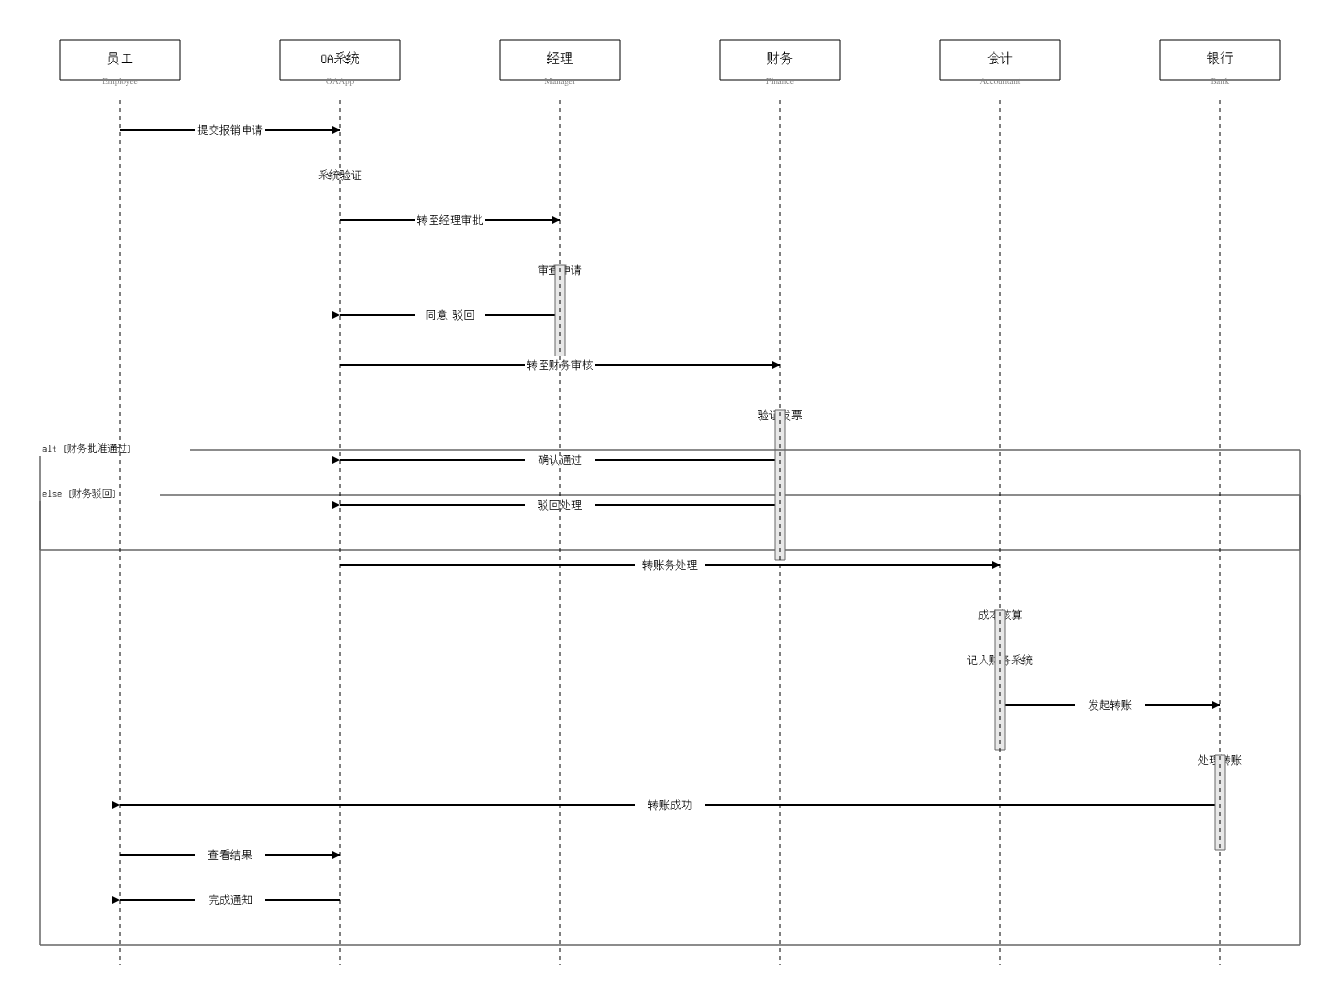
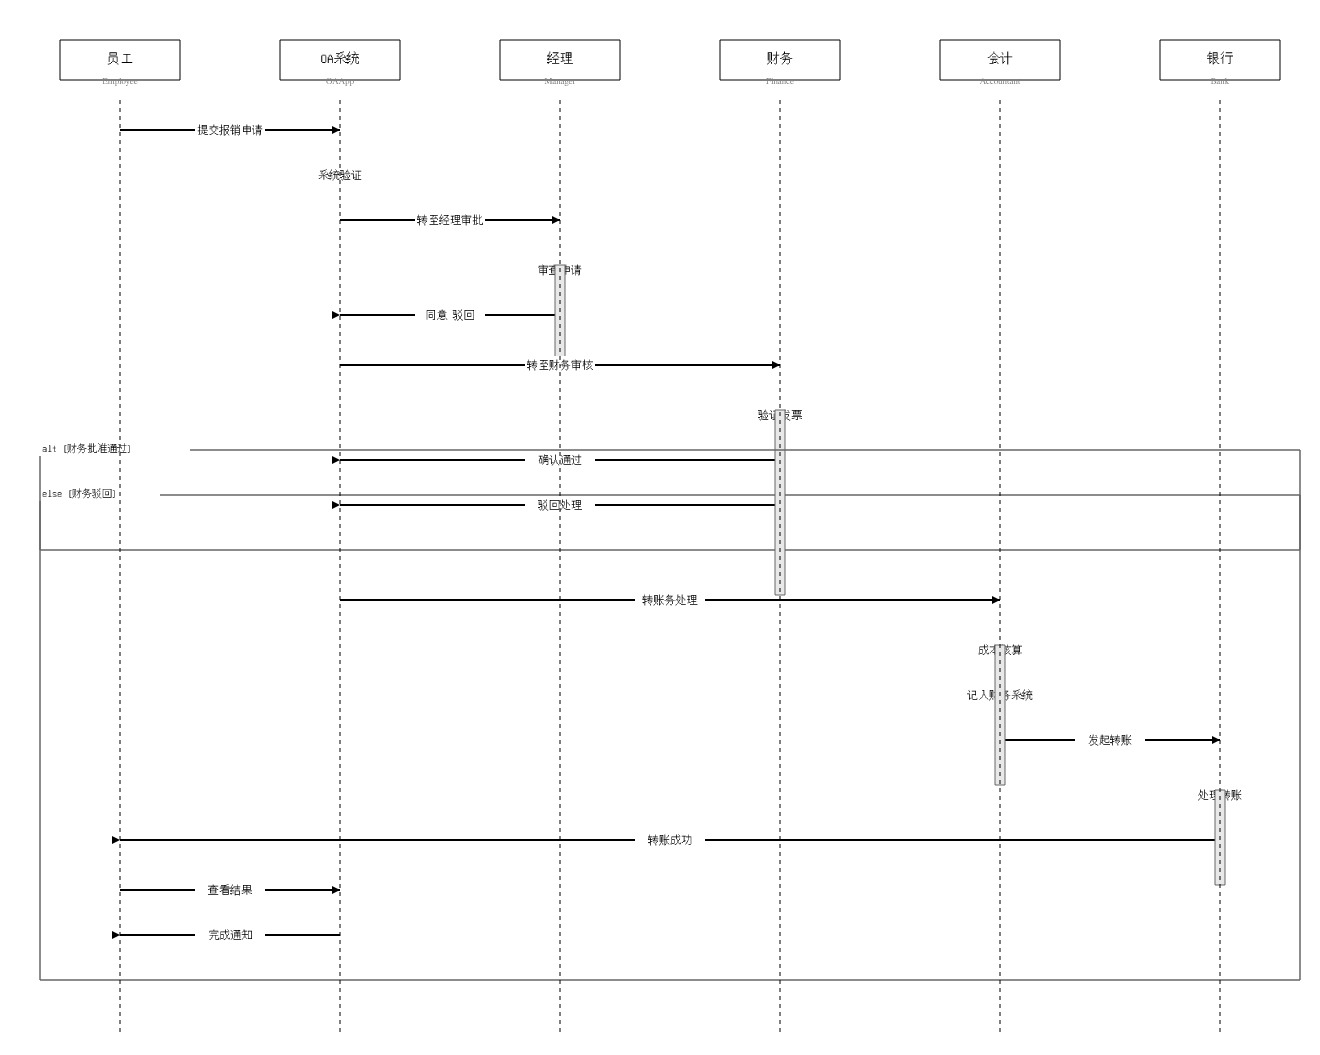
fix: 条件框后间距增加，防止后续消息被遮挡
问题：
- 条件框的下边界线与后续消息标签重叠
- "成本核算"、"记入财务系统"等消息文字被框遮挡

解决方案：
- 条件框处理后，增加 line_height（45px）的间距
- 确保后续消息有足够的空间，不被框的下边界遮挡

测试结果：
- 所有消息标签清晰可读
- 条件框完整显示，无冲突
- 整个时序图布局清晰美观

diff --git a/src/renderer/mod.rs b/src/renderer/mod.rs
@@ -2991,7 +2991,8 @@ fn process_seq_stmts(
                     &block_label,
                     "text-anchor:start;font-size:10px;font-family:Arial;font-weight:bold",
                 );
-                *y_pos += 10.0;
+                // 条件框后增加更多间距，防止后续消息被框的下边界遮挡
+                *y_pos += line_height;
             }
             Statement::Activate { participant } => {
                 activations.insert(participant.clone(), *y_pos);
